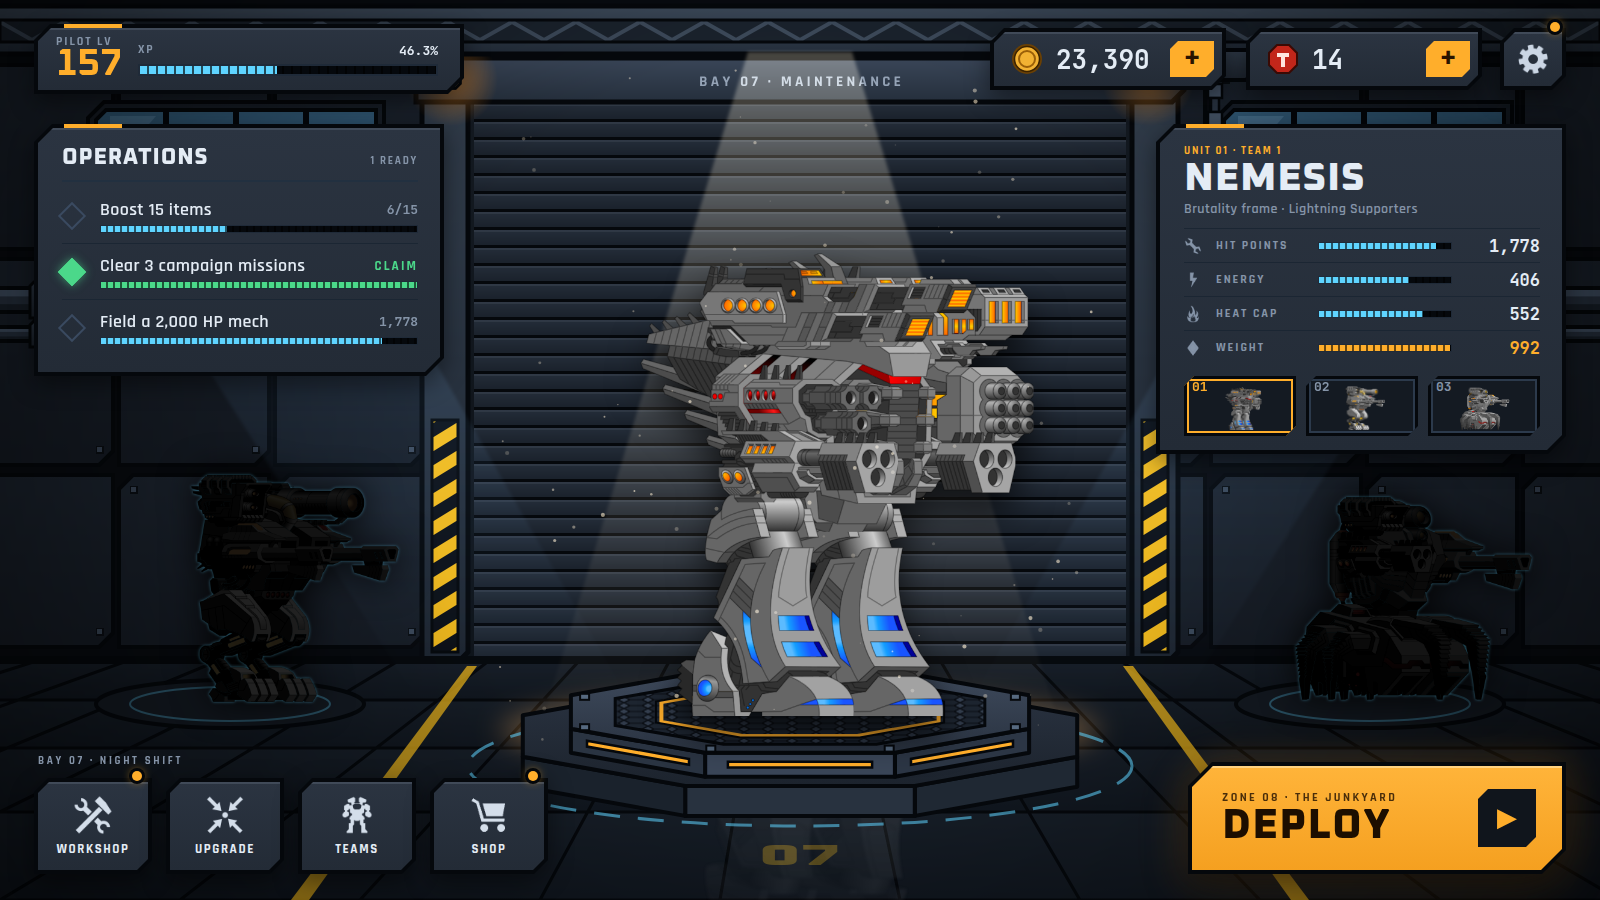
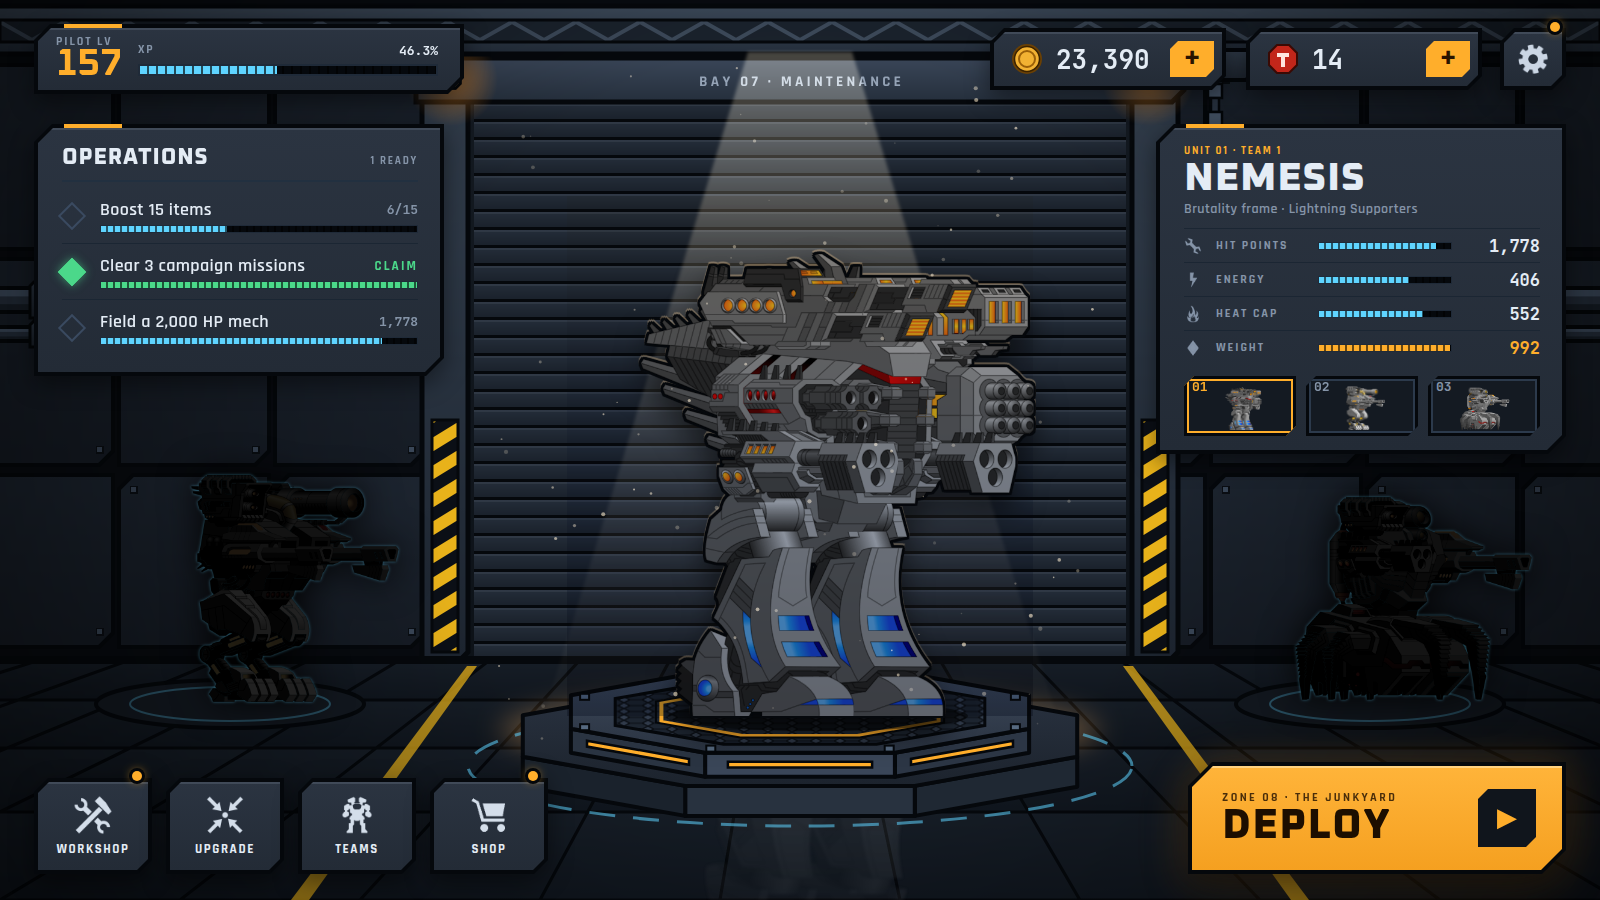
Ground the mech in the bay; clean up leftovers
Mech gets a fat outline like the scene, a cooler, darker grade with warm top
light (a mech-shaped multiply layer), and a contact shadow on the pedestal.
Removed the hidden windows and their beams, the floor '07' and the floating
label.

Claude-Session: https://claude.ai/code/session_016EMeU7WbdybdkHaQ4QiAx5

diff --git a/ui/mocks/F-bay.html b/ui/mocks/F-bay.html
@@ -91,7 +91,8 @@ canvas{position:absolute;left:0;top:0;width:1600px;height:900px}
 .tm.on span{color:var(--amber)}
 
 /* ---- mech ---- */
-#mech{position:absolute;z-index:5;filter:drop-shadow(0 18px 18px rgba(0,0,0,.7))}
+#mech{position:absolute;z-index:5;filter:brightness(.84) contrast(1.06) saturate(.85) drop-shadow(2px 0 0 #05080c) drop-shadow(-2px 0 0 #05080c) drop-shadow(0 2px 0 #05080c) drop-shadow(0 -2px 0 #05080c) drop-shadow(0 -2px 0 rgba(255,214,160,.35)) drop-shadow(0 16px 14px rgba(0,0,0,.55))}
+#shade{position:absolute;z-index:6;pointer-events:none;mix-blend-mode:multiply;opacity:.42}
 #refl{position:absolute;z-index:3;transform:scaleY(-1);opacity:.2;filter:blur(1.5px) saturate(.7);-webkit-mask:linear-gradient(0deg,#000,transparent 55%);mask:linear-gradient(0deg,#000,transparent 55%)}
 #ped{position:absolute;left:0;top:0;z-index:4;pointer-events:none}
 #side1,#side2{position:absolute;z-index:2;filter:brightness(.2) contrast(1.15) saturate(.4) drop-shadow(0 0 1.5px rgba(95,212,255,.45)) drop-shadow(0 0 18px rgba(0,0,0,.9))}
@@ -141,6 +142,7 @@ canvas{position:absolute;left:0;top:0;width:1600px;height:900px}
     <path d="M984.8 725.4 L876.5 744.3 L723.5 744.3 L615.2 725.4 L615.2 698.6 L723.5 679.7 L876.5 679.7 L984.8 698.6 Z" fill="url(#hex)" stroke="#05080c" stroke-width="3"/>
     <path d="M938.6 721.9 L857.4 736.0 L742.6 736.0 L661.4 721.9 L661.4 702.1 L742.6 688.0 L857.4 688.0 L938.6 702.1 Z" fill="none" stroke="#ffae2b" stroke-width="4"/>
     <path d="M944.1 722.5 L859.7 737.4 L740.3 737.4 L655.9 722.5 L655.9 701.5 L740.3 686.6 L859.7 686.6 L944.1 701.5 Z" fill="none" stroke="#05080c" stroke-width="2"/>
+    <ellipse id="contact" cx="818" cy="716" rx="150" ry="15" fill="#000" opacity=".5"/>
     <rect x="1010.9" y="724.2" width="9" height="6" fill="#56697f" stroke="#05080c" stroke-width="2"/>
     <rect x="884.7" y="745.6" width="9" height="6" fill="#56697f" stroke="#05080c" stroke-width="2"/>
     <rect x="706.3" y="745.6" width="9" height="6" fill="#56697f" stroke="#05080c" stroke-width="2"/>
@@ -151,6 +153,7 @@ canvas{position:absolute;left:0;top:0;width:1600px;height:900px}
     <rect x="1010.9" y="693.8" width="9" height="6" fill="#56697f" stroke="#05080c" stroke-width="2"/>
   </svg>
   <div id="mech"></div>
+  <div id="shade"></div>
   <canvas id="fx" width="1600" height="900"></canvas>
 
   <!-- HUD -->
@@ -180,7 +183,7 @@ canvas{position:absolute;left:0;top:0;width:1600px;height:900px}
   </div><div class="notch"></div></div>
 
   <!-- dock -->
-  <div class="foot lbl">Bay 07 · Night shift</div>
+  
   <div class="plate nb" style="left:34px"><div class="in"><i class="mask" style="--i:url(assets/icons/interface_hanger.png)"></i><span class="lbl">Workshop</span></div><div class="dot"></div></div>
   <div class="plate nb" style="left:166px"><div class="in"><i class="mask" style="--i:url(assets/icons/interface_fusion.png)"></i><span class="lbl">Upgrade</span></div></div>
   <div class="plate nb" style="left:298px"><div class="in"><i class="mask" style="--i:url(assets/icons/interface_mech.png)"></i><span class="lbl">Teams</span></div></div>
@@ -208,13 +211,6 @@ g.fillStyle='#080b10'; g.fillRect(0,0,1600,900);
 // wall panels (three rows), flat chamfered plates
 const rows=[[62,190],[256,212],[472,178]];
 for(const [y,h] of rows){ for(let x=-40;x<1600;x+=156){ block(x+3,y+3,150,h-6,14,'#1d2530','#161c25'); bolt(x+18,y+18); bolt(x+140,y+h-18); } }
-
-// high windows
-for(const x of [96,1224]){ block(x-8,102,296,136,16,'#1a212b','#10151c');
-  cham(x,110,280,120,10); g.fillStyle=lin(0,110,0,230,[[0,'#35607f'],[1,'#1b3650']]); g.fill();
-  g.fillStyle=OUT; for(let i=1;i<4;i++) g.fillRect(x+i*70-3,110,6,120); g.fillRect(x,168,280,6);
-  g.fillStyle='rgba(180,220,255,.18)'; g.beginPath(); g.moveTo(x+14,116); g.lineTo(x+60,116); g.lineTo(x+22,160); g.lineTo(x+14,160); g.fill();
-  g.lineWidth=4; g.strokeStyle=OUT; cham(x,110,280,120,10); g.stroke(); }
 
 // pipes: flat two-tone cylinders with fat outline and bracket blocks
 function pipe(x0,x1,y,r){ g.fillStyle='#2a3544'; g.fillRect(x0,y-r,x1-x0,2*r); g.fillStyle='#46566b'; g.fillRect(x0,y-r,x1-x0,r*.7); g.fillStyle='#1a222c'; g.fillRect(x0,y+r*.35,x1-x0,r*.65);
@@ -261,15 +257,11 @@ g.fillStyle=OUT; g.fillRect(0,656,1600,8);
 // painted bay lines, flat
 g.fillStyle='rgba(232,178,26,.75)';
 for(const [x0,x1] of [[472,300],[1128,1300]]){ g.beginPath(); g.moveTo(x0-5,666); g.lineTo(x0+5,666); g.lineTo(x1+(x1>800?9:9),900); g.lineTo(x1-9,900); g.fill(); }
-g.save(); g.globalAlpha=.35; g.fillStyle='#e8b21a'; g.font='800 70px "Oxanium"'; g.textAlign='center'; g.setTransform(2,0,0,2*.42,0,0); g.fillText('07',800,2060); g.restore(); g.setTransform(2,0,0,2,0,0);
 
 // light: crisp spot cone and window beams (lightly softened), warm pool under pedestal
 g.save(); g.globalCompositeOperation='lighter'; g.filter='blur(3px)';
 g.fillStyle=lin(0,52,0,760,[[0,'rgba(255,236,200,.26)'],[.7,'rgba(255,226,180,.07)'],[1,'rgba(255,220,170,0)']]);
 g.beginPath(); g.moveTo(748,52); g.lineTo(852,52); g.lineTo(1070,760); g.lineTo(530,760); g.fill();
-g.fillStyle=lin(0,230,0,700,[[0,'rgba(120,180,240,.12)'],[1,'rgba(120,180,240,0)']]);
-g.beginPath(); g.moveTo(120,230); g.lineTo(360,230); g.lineTo(640,720); g.lineTo(430,720); g.fill();
-g.beginPath(); g.moveTo(1240,230); g.lineTo(1480,230); g.lineTo(1170,720); g.lineTo(960,720); g.fill();
 g.filter='blur(26px)'; g.fillStyle='rgba(255,170,70,.30)'; g.beginPath(); g.ellipse(800,730,300,40,0,0,7); g.fill();
 g.restore();
 // side bay pads: flat outlined discs
@@ -284,6 +276,12 @@ let seed=7; const rnd=()=>(seed=(seed*16807)%2147483647)/2147483647;
 function place(id,key,h,left,top){const w=document.getElementById(id);const i=document.createElement('div');buildMech(i,key,h);w.appendChild(i);w.style.width=i.dataset.w+'px';w.style.height=i.dataset.h+'px';if(left!=null){w.style.left=left+'px';w.style.top=top+'px';}return w;}
 const H=520, m=window.MECHS.target, W=m.w*H/m.h, L=800-W/2, T=716-H;
 place('mech','target',H,L,T); place('refl','target',H,L,716-6);
+{ const sh=document.getElementById('shade'); sh.style.left=L+'px'; sh.style.top=T+'px'; sh.style.width=W+'px'; sh.style.height=H+'px';
+  const src=[...document.querySelectorAll('#mech img')];
+  /* a mech-shaped mask: stack the same parts, then paint a gradient through it */
+  const holder=document.createElement('div'); buildMech(holder,'target',H); sh.appendChild(holder);
+  holder.querySelectorAll('img').forEach(i=>{i.style.filter='brightness(0) invert(1)';});
+  const grad=document.createElement('div'); grad.style.cssText='position:absolute;inset:0;mix-blend-mode:multiply;background:linear-gradient(180deg,rgba(255,236,210,1) 0%,rgba(150,175,215,1) 55%,rgba(70,90,130,1) 100%)'; sh.appendChild(grad); sh.style.isolation='isolate'; }
 place('side1','m2',250,160,452); place('side2','m3',230,1290,470);
 place('t1','target',48);place('t2','m2',48);place('t3','m3',48);
 
